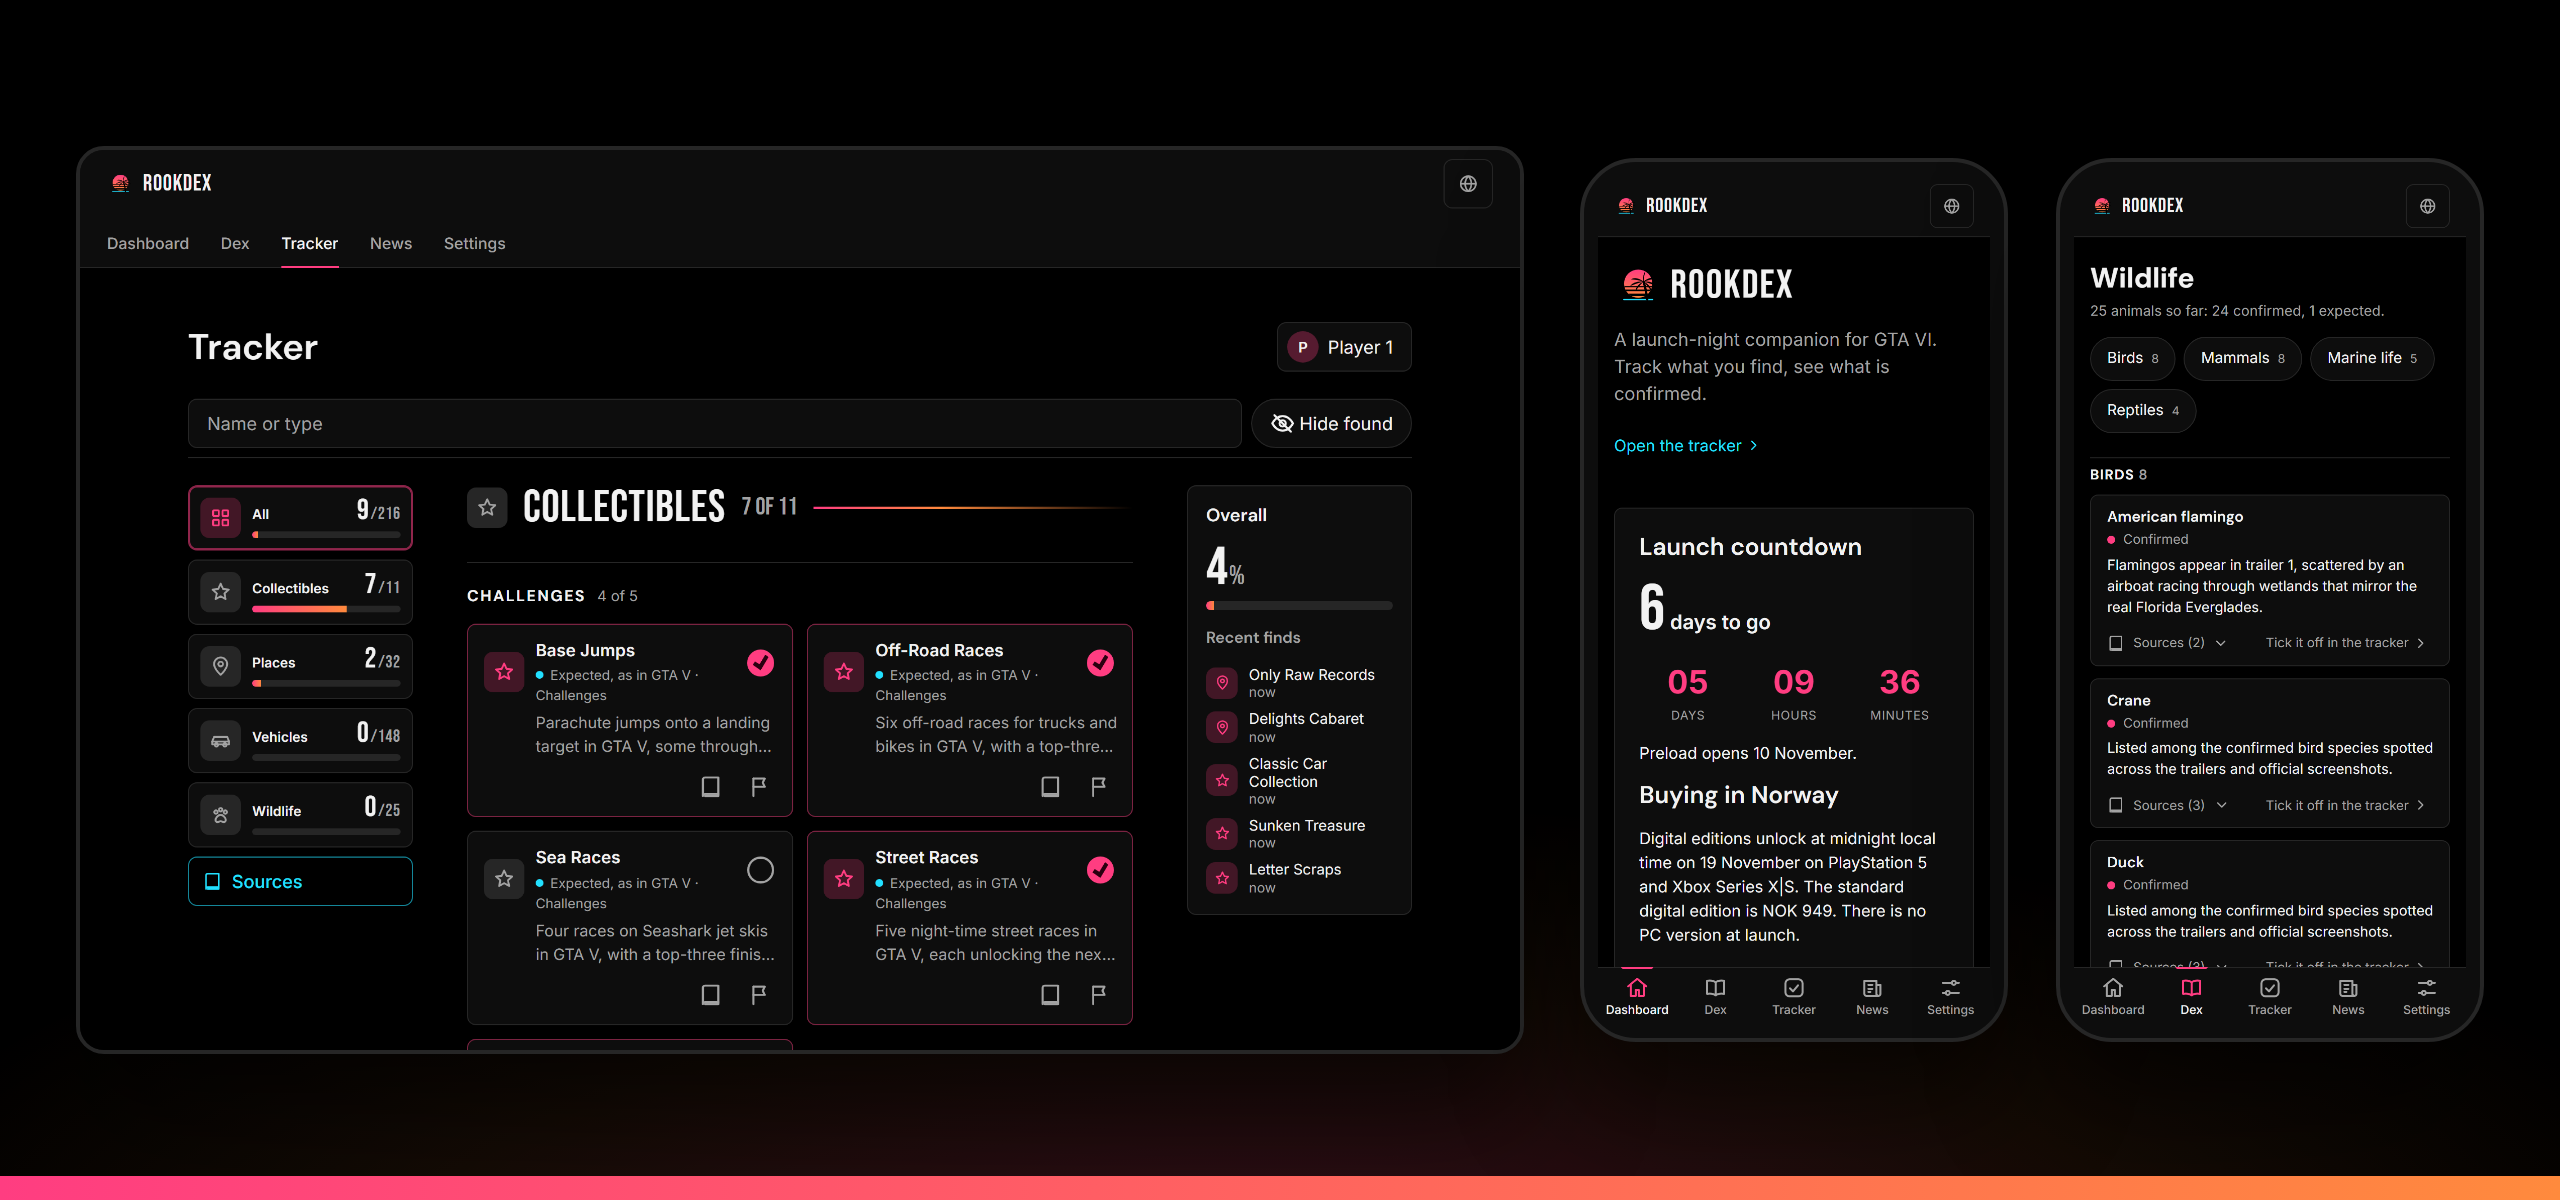
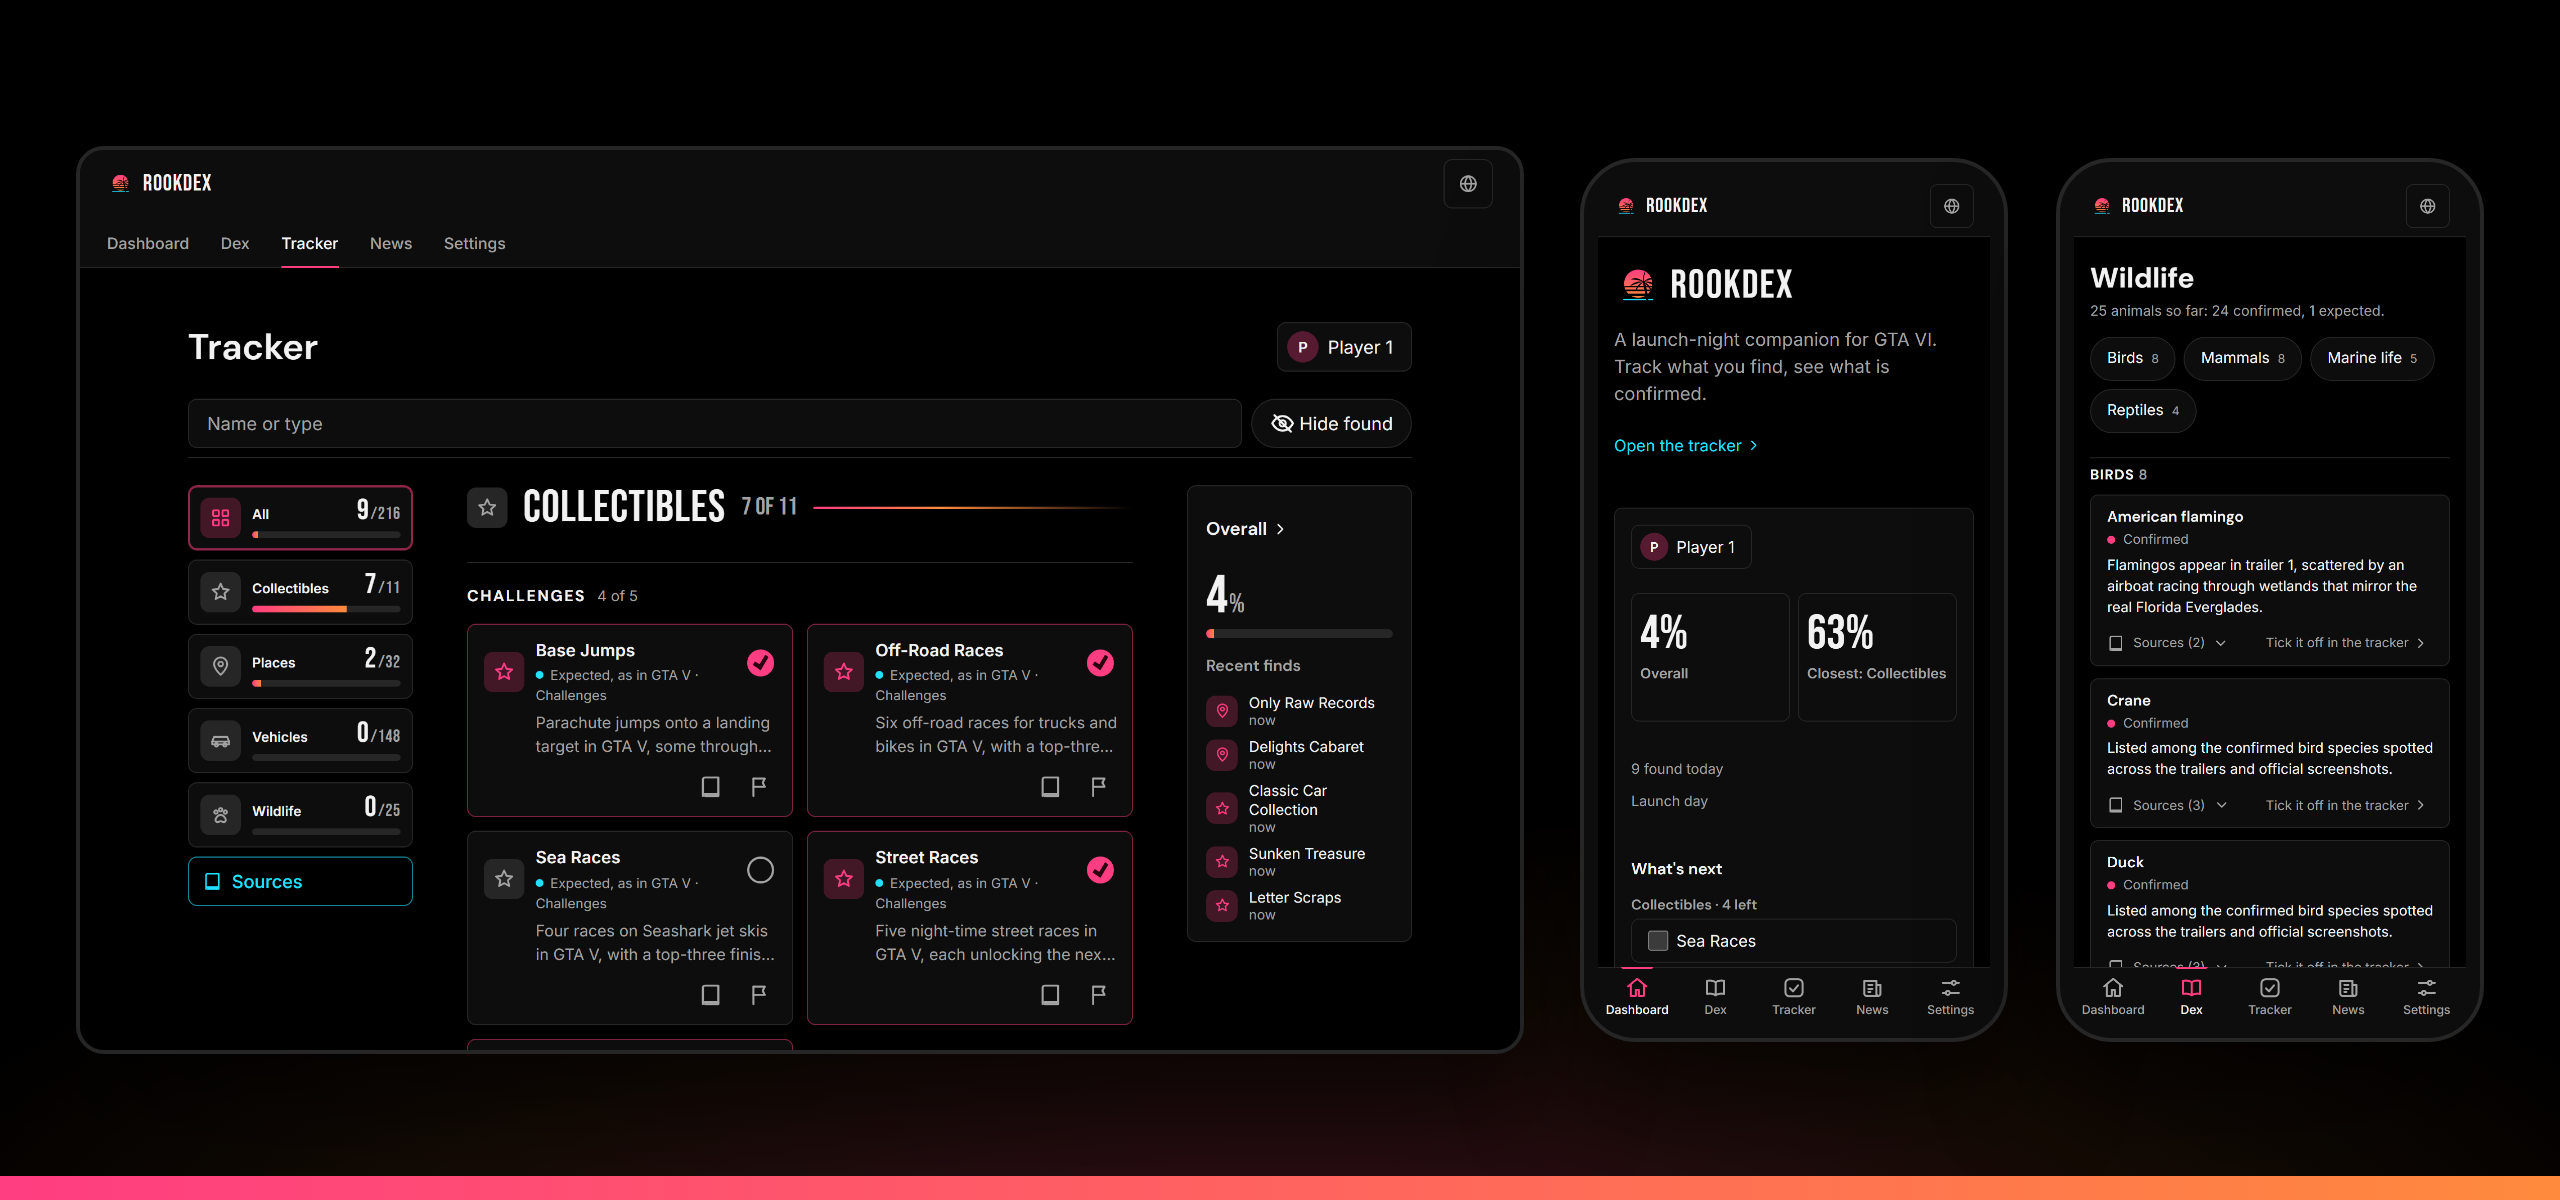
Retake the README screenshot with the dashboard
The capture script now shoots the tracker first, so the items it ticks there show up as progress on the dashboard in the hub shot.

diff --git a/README.md b/README.md
@@ -6,7 +6,7 @@ Leonida is open, and you'll want somewhere to keep score. Rookdex gives you a tr
 
 **[Open rookdex.app](https://rookdex.app)** · English and Norsk · free · no account
 
-<a href="https://rookdex.app"><img src="docs/readme/screens.png" alt="Rookdex on desktop and phone: the tracker with search and progress per category, the launch countdown, and the Dex wildlife page." width="100%"></a>
+<a href="https://rookdex.app"><img src="docs/readme/screens.png" alt="Rookdex on desktop and phone: the tracker with search and progress per category, the dashboard with overall progress and what's next, and the Dex wildlife page." width="100%"></a>
 
 ## <img src="docs/readme/map.svg" width="22" height="22" alt=""> What you get
 
